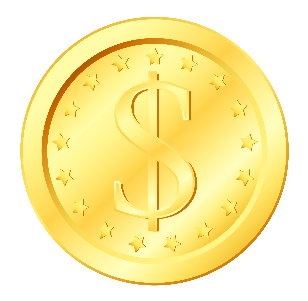
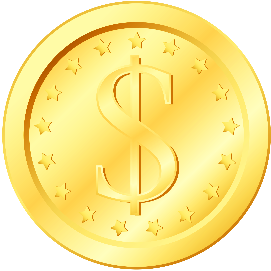
Refining graphics

diff --git a/screens/CameraNav.js b/screens/CameraNav.js
@@ -59,11 +59,16 @@ export default class App extends React.Component {
     const coinTexture = await ExpoTHREE.createTextureAsync({
       asset: Asset.fromModule(require('../assets/images/coin.png')),
     });
-
-    const material = new THREE.MeshBasicMaterial( { map: coinTexture } );
+    
+    const top_material = new THREE.MeshBasicMaterial( { map: coinTexture } );
+    // show copy to save memory, same as using clone()
+    const bottom_material = top_material;
+    const side_material = new THREE.MeshBasicMaterial( { color: 0xFFD700 } );
+    //array of materials
+    const materials = [side_material, top_material, bottom_material];
     //TODO: take 1/10 of the screen roughly, tune later
-    const geometry = new THREE.CylinderGeometry(0.1, 0.1, 0.015, 100);
-    const cube = new THREE.Mesh(geometry, material);
+    const geometry = new THREE.CylinderGeometry(0.1, 0.1, 0.02, 100);
+    const cube = new THREE.Mesh(geometry, materials);
     cube.position.z = -0.4;
     scene.add(cube);
 
@@ -71,8 +76,8 @@ export default class App extends React.Component {
       requestAnimationFrame(animate);
 
       //x direction is pointing right, y axis is pointing upword
-      //cube.rotation.x += 0.01;
-      cube.rotation.x = 0.5;
+      cube.rotation.x += 0.01;
+      //cube.rotation.x = Math.PI / 5.0 * 2.0;
       cube.rotation.y += 0.02;
 
       renderer.render(scene, camera);
